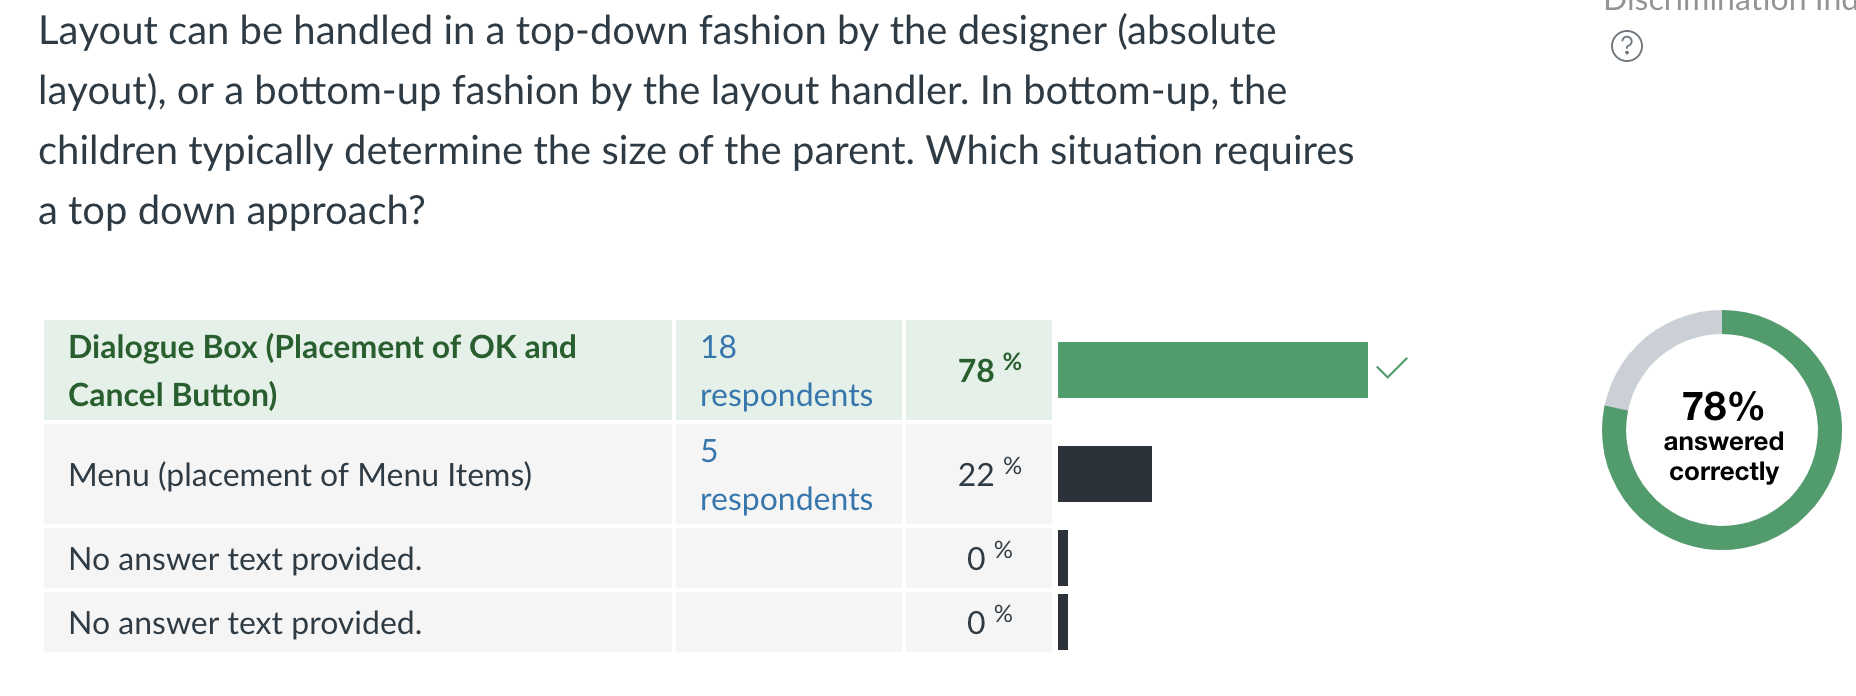
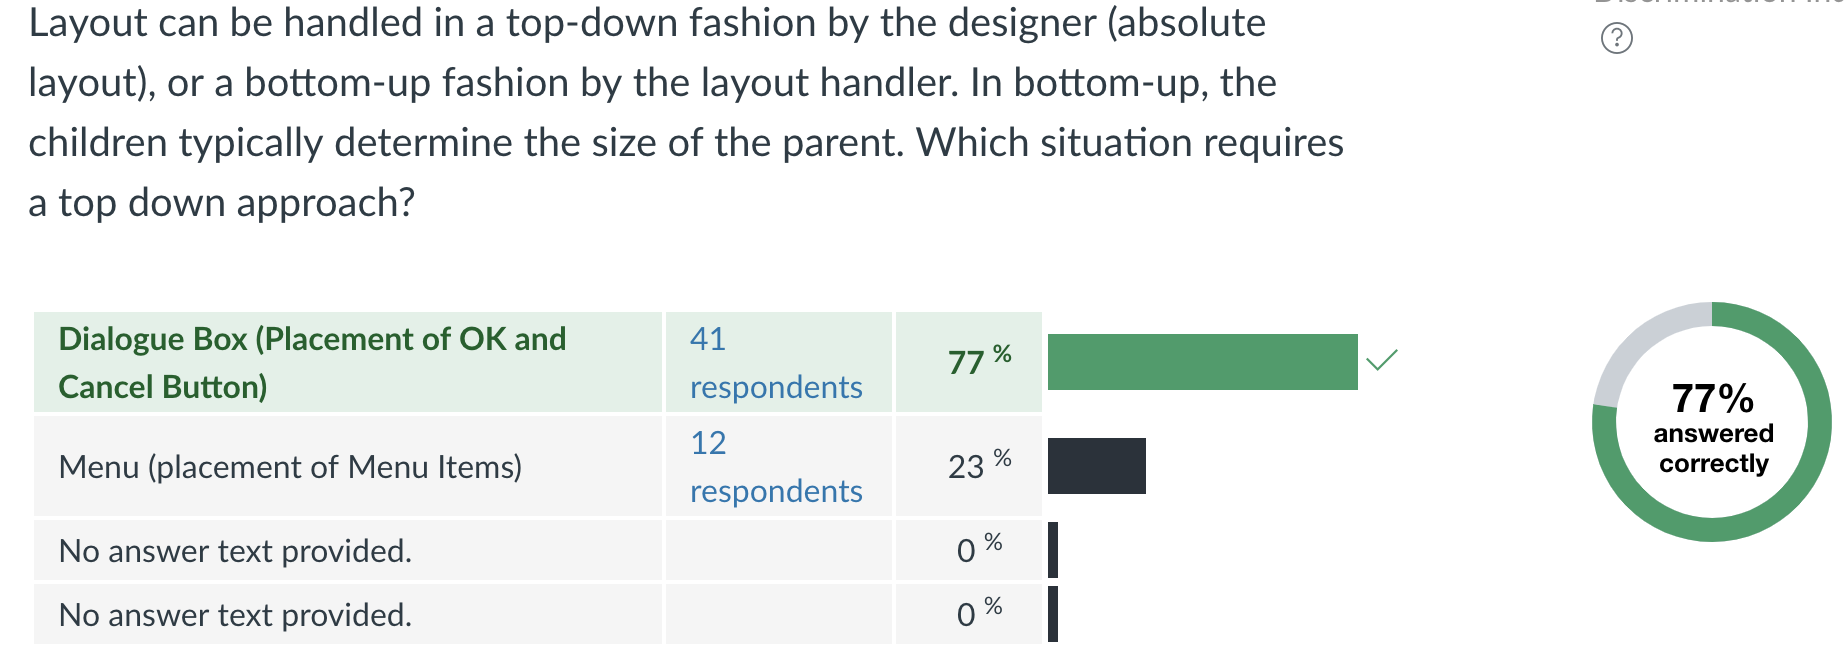
Updated quiz results and discussion of color

diff --git a/slides/wk02/people-vision.html b/slides/wk02/people-vision.html
@@ -234,20 +234,6 @@ B: Saturation
 ](img/q3.png)
 ]
 ---
-.title[Aside: Color Gamuts<sup>1</sup>]
-.body[
-![:youtube Explanation of color gamuts,8y9yENEdtG4]
-]
-.footnote[
-<sup>1</sup>
-See the [Wikipedia page on color
-gamuts](http://en.wikipedia.org/wiki/Gamut) for more information]
-
-???
-- no time to play video
-- Outside is wavelengths (hues)
-- Triangle shows primary colors for this gamut
----
 .title[Perception of Color is Culturally Defined! ]
 
 .footnote[
@@ -255,7 +241,6 @@ gamuts](http://en.wikipedia.org/wiki/Gamut) for more information]
 ]
 
 .right-column[
-(People have color gamuts too)
 
 Not only are we limited to RGB, but we disagree about how to interpret
 it<sup>1</sup>
@@ -950,3 +935,17 @@ Lasseter ‘87]
 ---
 ![:img Which of the following widgets is likely to have a minimum; desired; and maximum height that are all the same? Correct answer is scrollbar; some answered text area, 50%](img/q2.png)
 
+---
+.title[Aside: Color Gamuts<sup>1</sup>]
+.body[
+![:youtube Explanation of color gamuts,8y9yENEdtG4]
+]
+.footnote[
+<sup>1</sup>
+See the [Wikipedia page on color
+gamuts](http://en.wikipedia.org/wiki/Gamut) for more information]
+
+???
+- no time to play video
+- Outside is wavelengths (hues)
+- Triangle shows primary colors for this gamut
